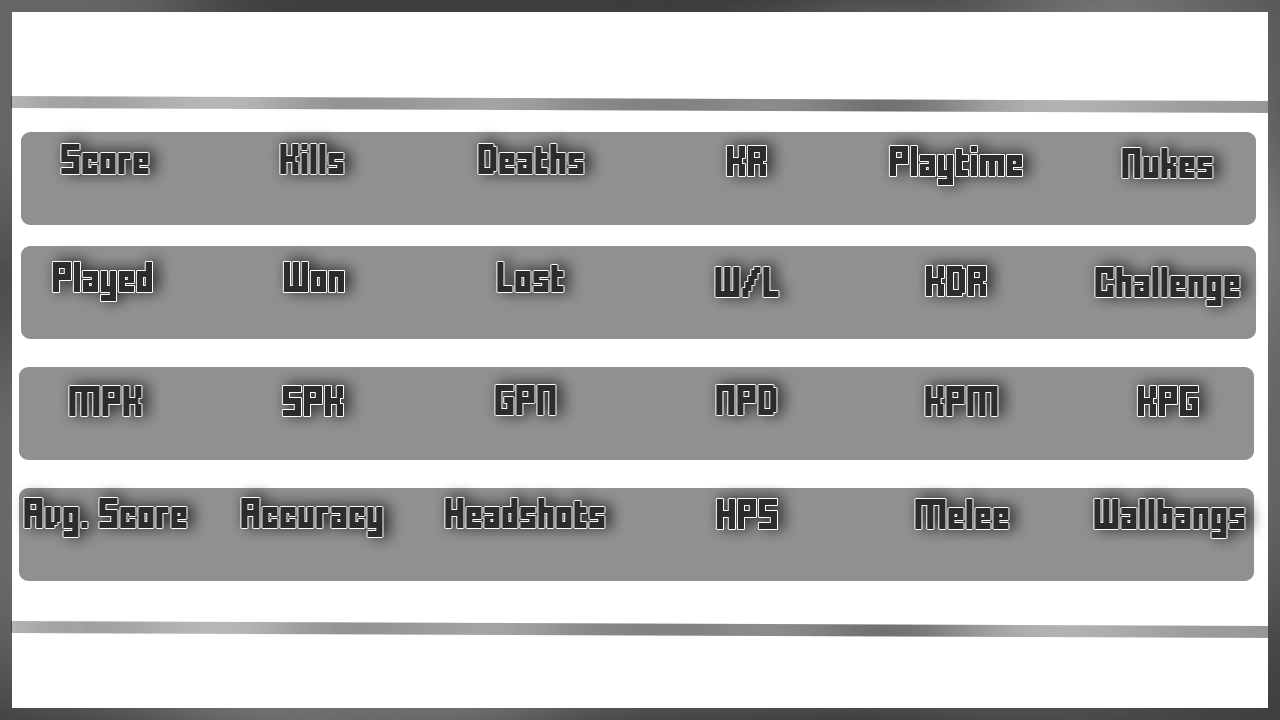
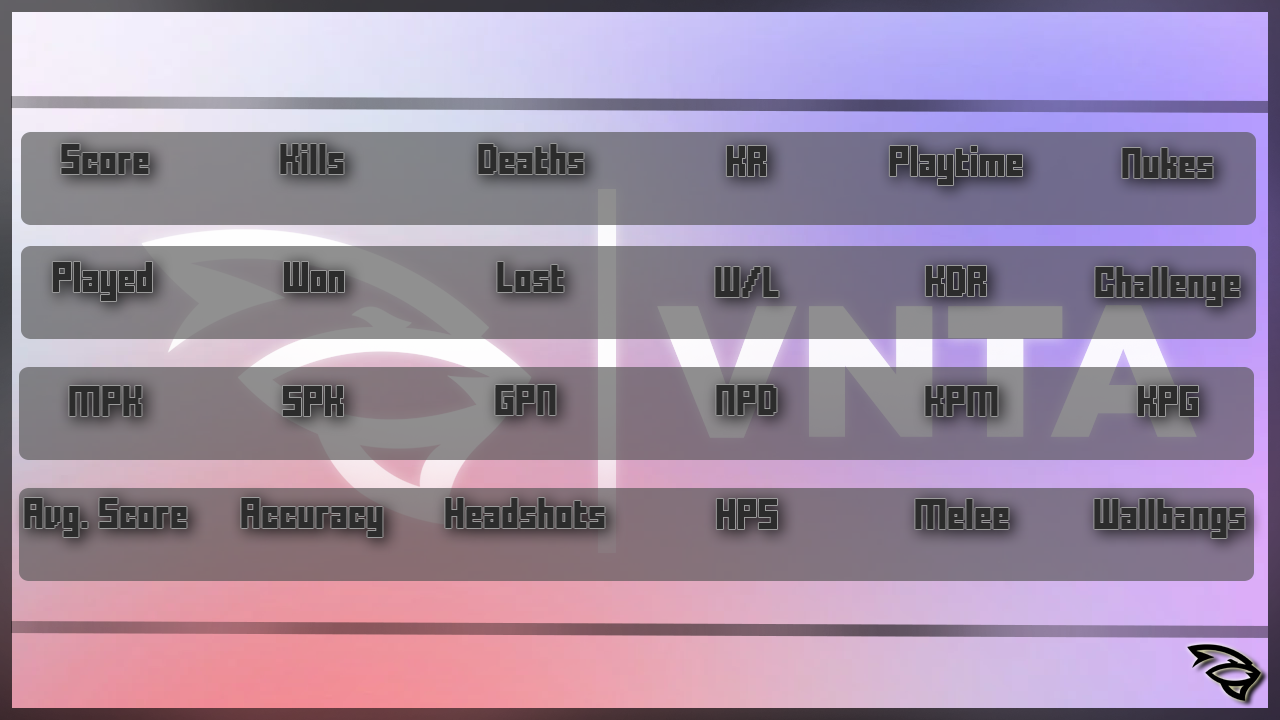
incog

diff --git a/main.py b/main.py
@@ -26,6 +26,7 @@ sampfp = "https://media.discordapp.net/attachments/854008993248051230/8547088890
 bot.refr = {}
 bot.links = {}
 bot.data = {}
+bot.userdata = {}
 bot.dev = ""
 economyerror = "❌"
 economysuccess = "✅"
@@ -212,6 +213,12 @@ async def close_admin(a):
     bot.refr["719946380285837322"] = a
     chl = bot.get_channel(854692793276170280)
     await chl.send(json.dumps(bot.refr))
+
+async def updateuserdata():
+    chl = bot.get_channel(856070919033978932)
+    with open("userdata.json", "w") as f:
+        f.write(json.dumps(bot.userdata, indent=2))
+    await chl.send(file=discord.File("userdata.json"))
 
 async def auto_update():
     while True:
@@ -458,6 +465,8 @@ async def contract(ctx, *, ign=None):
         newign = str(ign).replace('<@', '').replace('>', '')
         if len(newign) == len("537623052775718912"):
             ign = bot.links.get(str(newign))
+            work = bot.userdata.get(str(newign), {"incognito": False})["incognito"]
+            if work and ctx.author.id != int(newign): ign = None
             if ign is None:
                 embed = discord.Embed(description="User not linked yet.",
                                       color=error_embed)
@@ -507,10 +516,11 @@ async def profile(ctx, *, ign=None):
             embed.set_footer(text=f"Bot by {bot.dev} | #vantalizing")
             return await ctx.reply(embed=embed)
     else:
-
         newign = str(ign).replace('<@', '').replace('>', '')
         if len(newign) == len("537623052775718912"):
             ign = bot.links.get(str(newign))
+            work = bot.userdata.get(str(ctx.author.id), {"incognito": False})["incognito"]
+            if work and ctx.author.id != int(newign): ign = None
             if ign is None:
                 embed = discord.Embed(description="User not linked yet.",
                                       color=error_embed)
@@ -624,7 +634,7 @@ async def profile(ctx, *, ign=None):
     elif clan == "DEV":
         clancolor = (25, 191, 255)
     elif clan == "VNTA":
-        draw.text((1050, 655), "#vantalizing", fill=(36, 36, 36), font=font3)
+        draw.text((950, 655), "#vantalizing", fill=(36, 36, 36), font=font3)
     draw.text((35, 32), str(level), fill=fill, font=font2)
     draw.text((65+font2.getsize(str(level))[0], 32), str(username), fill=(36, 36, 36), font=font2)
     draw.text((85+font2.getsize(str(level))[0]+font2.getsize(str(username))[0], 32), f"[{clan}]", fill=clancolor, font=font2)
@@ -641,6 +651,21 @@ async def profile(ctx, *, ign=None):
     statsoverlay.close()
     bgimage.close()
     await ctx.send(file=discord.File(image_bytes, filename="profile.png"))
+
+@bot.command(aliases=["incog"])
+@commands.check(general)
+async def incognito(ctx):
+    data = bot.userdata.setdefault(str(ctx.author.id), {"incognito":False})
+    if data["incognito"]:
+        data["incognito"] = False
+        embed=discord.Embed(description=f"{economysuccess} You are **no longer** in incognito mode", color=success_embed)
+        await ctx.reply(embed=embed)
+    else:
+        data["incognito"] = True
+        embed = discord.Embed(description=f"{economysuccess} You are in incognito mode", color=success_embed)
+        await ctx.reply(embed=embed)
+    bot.userdata[str(ctx.author.id)] = data
+    await updateuserdata()
 
 @bot.command()
 @commands.check(general)
@@ -721,12 +746,17 @@ async def on_connect():
     msgs = await chl.history(limit=1).flatten()
     bot.links.update(json.loads(requests.get(msgs[0].attachments[0]).text))
     bot.dev = await bot.fetch_user(771601176155783198)
+
+    chl = bot.get_channel(856070919033978932)
+    msgs = await chl.history(limit=1).flatten()
+    bot.userdata = json.loads(requests.get(msgs[0].attachments[0]).text)
     print("Ready")
     if not bot.pause:
         asyncio.create_task(auto_update())
 
 @bot.event
 async def on_message(message):
+    if message.channel.id != 854008993248051230: return
     await bot.process_commands(message)
 
 @bot.event
